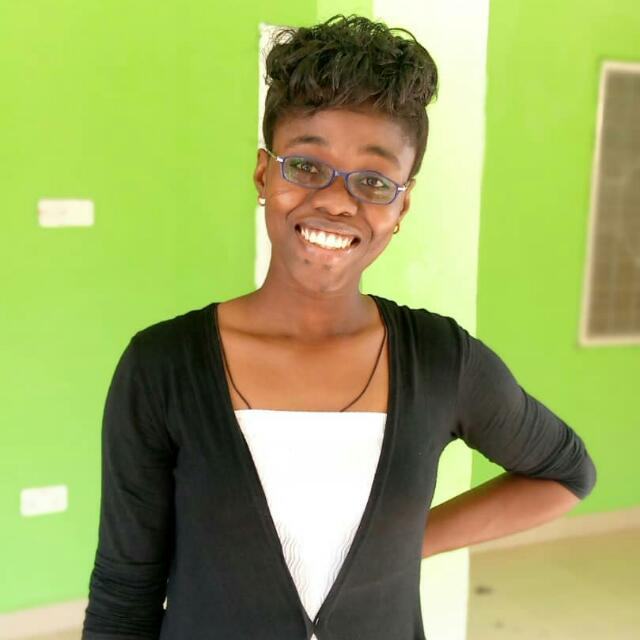
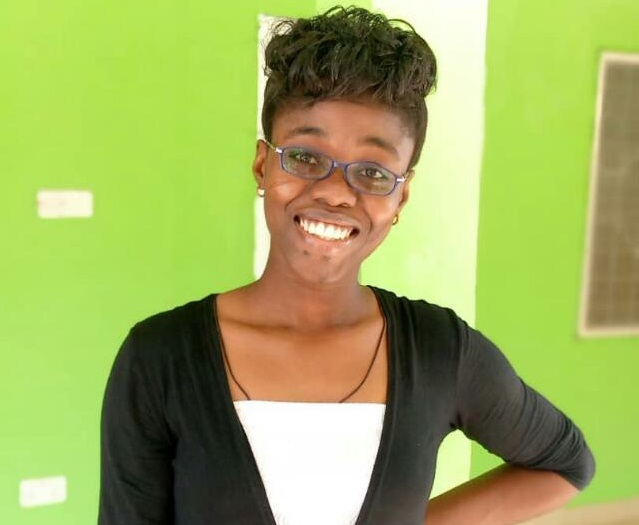
edited

diff --git a/templates/about.html b/templates/about.html
@@ -27,7 +27,7 @@
                 <h2 class="mb-2">More about Techneg </h2>
                 <p class="mb-3">TECHNEG is a multi-purpose technology training center located in the Upper West Region
                     of Ghana. TECHNEG seeks to address the gap in providing skills for next generation workers for
-                    Africa..</p>
+                    Africa.</p>
             </div>
         </div>
     </div>
@@ -45,7 +45,7 @@
                                 <div class="media-body pl-4">
                                     <h3>Our Mission</h3>
                                     <p>To inspire and empower African Entrepreneurs to solve their immediate
-                                        socio-economic challenges by leveraging technology,, resources and network
+                                        socio-economic challenges by leveraging technology, resources and network
                                         collaboratively, doing well while doing so.</p>
                                 </div>
                             </div>
@@ -408,10 +408,10 @@
                 <div class="blog-entry center-content-end">
                     <div class="text">
                         <a class="block-20 img" href="blog-single.html"
-                           style="background-image: url('../static/images/h.jpg'); ">
+                           style="background-image: url('../static/images/pr1.jpg'); ">
                         </a>
                         <div class="P-name">Samuel Wilson</div>
-                        <div class="p-des">Co-Founder</div>
+                        <div class="p-des">Co-Founder | Director</div>
                         <ul class="ftco-footer-social list-unstyled mt-5">
                             <li class="ftco-animate"><a href="https://twitter.com/Luchyba"><span class="fa fa-twitter"></span></a></li>
                             <li class="ftco-animate"><a href="https://web.facebook.com/samuel.wilson.12935"><span class="fa fa-facebook"></span></a></li>
@@ -428,16 +428,16 @@
                 <div class="blog-entry justify-content-end">
                     <div class="text">
                         <a class="block-20 img" href="blog-single.html"
-                           style="background-image: url('../static/images/image_2.jpg');">
+                           style="background-image: url('../static/images/pr4.jpg'); hight=100%">
                         </a>
-                        <div class="P-name">Samuel Wilson</div>
+                        <div class="P-name">Ruth Addah</div>
                         <div class="p-des">Co-Founder</div>
                          <ul class="ftco-footer-social list-unstyled mt-5">
-                            <li class="ftco-animate"><a href="https://twitter.com/Luchyba"><span class="fa fa-twitter"></span></a></li>
-                            <li class="ftco-animate"><a href="https://web.facebook.com/samuel.wilson.12935"><span class="fa fa-facebook"></span></a></li>
-                            <li class="ftco-animate"><a href="https://www.instagram.com/sixtus99/"><span class="fa fa-instagram"></span></a></li>
+                            <li class="ftco-animate"><a href="https://twitter.com/ayikujei"><span class="fa fa-twitter"></span></a></li>
+                            <li class="ftco-animate"><a href="https://web.facebook.com/ayikujei.ruth"><span class="fa fa-facebook"></span></a></li>
+                            <li class="ftco-animate"><a href="https://www.instagram.com/ayikujeiruth/"><span class="fa fa-instagram"></span></a></li>
                         </ul>
-                        {% comment %} <h3 class="heading"><a href="#">Why Lead Generation is Key for Business Growth</a></h3> {% endcomment %}
+
                     </div>
                 </div>
             </div>
@@ -446,14 +446,14 @@
                 <div class="blog-entry justify-content-end">
                     <div class="text">
                         <a class="block-20 img" href="blog-single.html"
-                           style="background-image: url('../static/images/pr1.jpg');">
+                           style="background-image: url('../static/images/pr3.jpg');">
                         </a>
-                        <div class="P-name">Samuel Wilson</div>
-                        <div class="p-des">Co-Founder</div>
+                        <div class="P-name">Kwasi Smith</div>
+                        <div class="p-des">Business Development</div>
                         <ul class="ftco-footer-social list-unstyled mt-5">
-                <li class="ftco-animate"><a href="#"><span class="fa fa-twitter"></span></a></li>
-                <li class="ftco-animate"><a href="#"><span class="fa fa-facebook"></span></a></li>
-                <li class="ftco-animate"><a href="#"><span class="fa fa-instagram"></span></a></li>
+                <li class="ftco-animate"><a href="https://twitter.com/Kwasi_Ahumah"><span class="fa fa-twitter"></span></a></li>
+                <li class="ftco-animate"><a href="https://web.facebook.com/nana.k.bodua"><span class="fa fa-facebook"></span></a></li>
+                <li class="ftco-animate"><a href="https://www.instagram.com/nkbodua/"><span class="fa fa-instagram"></span></a></li>
               </ul>
                         <!--                <h3 class="heading"><a href="#">Why Lead Generation is Key for Business Growth</a></h3>-->
                     </div>
@@ -464,6 +464,8 @@
         </div>
     </div>
 </section>
+
+
 
 
 {% endblock content %}

diff --git a/templates/foot.html b/templates/foot.html
@@ -13,52 +13,49 @@
               </ul>
             </div>
           </div>
-          <div class="col-sm-12 col-md">
-            <div class="ftco-footer-widget mb-4 ml-md-4">
-              <h2 class="ftco-heading-2">Explore</h2>
-              {% comment %} <ul class="list-unstyled">
-                <li><a href="#"><span class="fa fa-chevron-right mr-2"></span>About</a></li>
-                <li><a href="#"><span class="fa fa-chevron-right mr-2"></span>Contact</a></li>
-                <li><a href="#"><span class="fa fa-chevron-right mr-2"></span>What We Do</a></li>
-                <li><a href="#"><span class="fa fa-chevron-right mr-2"></span>Plans &amp; Pricing</a></li>
-              </ul> {% endcomment %}
-            </div>
-          </div>
-          <div class="col-sm-12 col-md">
+          {% comment %} <div class="col-sm-12 col-md">
             <div class="ftco-footer-widget mb-4 ml-md-4">
               <h2 class="ftco-heading-2">Legal</h2>
-              {% comment %} <ul class="list-unstyled">
-                <li><a href="#"><span class="fa fa-chevron-right mr-2"></span>Join us</a></li>
+              <ul class="list-unstyled">
+                <li><a href="{% url 'volunteer' %}"><span class="fa fa-chevron-right mr-2"></span>Join us</a></li>
                 <li><a href="#"><span class="fa fa-chevron-right mr-2"></span>Blog</a></li>
                 <li><a href="#"><span class="fa fa-chevron-right mr-2"></span>Privacy &amp; Policy</a></li>
                 <li><a href="#"><span class="fa fa-chevron-right mr-2"></span>Term &amp; Conditions</a></li>
-              </ul> {% endcomment %}
+              </ul> 
             </div>
-          </div>
+          </div> {% endcomment %}
           <div class="col-sm-12 col-md">
              <div class="ftco-footer-widget mb-4">
               <h2 class="ftco-heading-2">Company</h2>
-              {% comment %} <ul class="list-unstyled">
-                <li><a href="#"><span class="fa fa-chevron-right mr-2"></span>About Us</a></li>
-                <li><a href="#"><span class="fa fa-chevron-right mr-2"></span>Blog</a></li>
-                <li><a href="#"><span class="fa fa-chevron-right mr-2"></span>Contact</a></li>
+              <ul class="list-unstyled">
+                <li><a href="{% url 'about' %}"><span class="fa fa-chevron-right mr-2"></span>About Us</a></li>
+                {% comment %} <li><a href="#"><span class="fa fa-chevron-right mr-2"></span>Blog</a></li> {% endcomment %}
+                <li><a href="{% url 'contact' %}"><span class="fa fa-chevron-right mr-2"></span>Contact</a></li>
                 <li><a href="#"><span class="fa fa-chevron-right mr-2"></span>Careers</a></li>
-              </ul> {% endcomment %}
+              </ul>
             </div>
           </div>
+          <div class="col-sm-12 col-md">
+            <div class="ftco-footer-widget mb-4 ml-md-4">
+              <h2 class="ftco-heading-2">Locate Us</h2>
+              
+              <iframe src="https://www.google.com/maps/embed?pb=!1m18!1m12!1m3!1d7854.161452410253!2d-2.5500160239379297!3d10.174093720927772!2m3!1f0!2f0!3f0!3m2!1i1024!2i768!4f13.1!3m3!1m2!1s0xfcd61530b42c95f%3A0x111abf437025d075!2sKaleo!5e0!3m2!1sen!2sgh!4v1594437943416!5m2!1sen!2sgh" width="300" height="400" frameborder="0" style="border:0;" allowfullscreen="" aria-hidden="false" tabindex="0"></iframe> 
+            </div>
+          </div> 
           <div class="col-sm-12 col-md">
             <div class="ftco-footer-widget mb-4">
             	<h2 class="ftco-heading-2">Have a Questions?</h2>
             	<div class="block-23 mb-3">
 	              <ul>
-	                <li><span class="icon fa fa-map marker"></span><span class="text">Kaleo,Wa, Upper West Region</span></li>
-	                <li><a href="#"><span class="icon fa fa-phone"></span><span class="text">+233 206851667  | +233 246460176 </span></a></li>
-	                <li><a href="#"><span class="icon fa fa-paper-plane pr-4"></span><span class="text">techneggh@gmail.com</span></a></li>
+	                <li><a href="https://www.google.com/maps/embed?pb=!1m18!1m12!1m3!1d7854.161452410253!2d-2.5500160239379297!3d10.174093720927772!2m3!1f0!2f0!3f0!3m2!1i1024!2i768!4f13.1!3m3!1m2!1s0xfcd61530b42c95f%3A0x111abf437025d075!2sKaleo!5e0!3m2!1sen!2sgh!4v1594437943416!5m2!1sen!2sgh" width="300" height="400" frameborder="0" style="border:0;" allowfullscreen="" aria-hidden="false" tabindex="0""><span class="icon fa fa-map marker"></span><span class="text">Kaleo,Wa, Upper West Region</span></li>
+	                <li><a href="#"><span class="icon fa fa-phone"></span><span class="text">+233 206851667 </span></a></li>
+	                <li><a href="{% url 'contact' %}"><span class="icon fa fa-paper-plane pr-4"></span><span class="text">techneggh@gmail.com</span></a></li>
 	              </ul>
 	            </div>
             </div>
           </div>
         </div>
+        
         <div class="row">
           <div class="col-md-12 text-center">
 

diff --git a/templates/home.html b/templates/home.html
@@ -553,7 +553,7 @@
                             <div class="text">
                                 <div class="d-flex align-items-center">
                                     <a class="block-20 img" href="blog-single.html"
-                                       style="background-image: url('../static/images/p_4.jpg');">
+                                       style="background-image: url('../static/images/p_4.jpg'); width= 100% hight=100%">
                                     </a>
                                 </div>
                             </div>

diff --git a/static/css/style.css b/static/css/style.css
@@ -9212,7 +9212,7 @@ textarea.form-control {
 .img-2,
 .blog-img,
 .user-img {
-  background-size: cover;
+  background-size: 100%;
   background-repeat: no-repeat;
   background-position: center center; }
 
